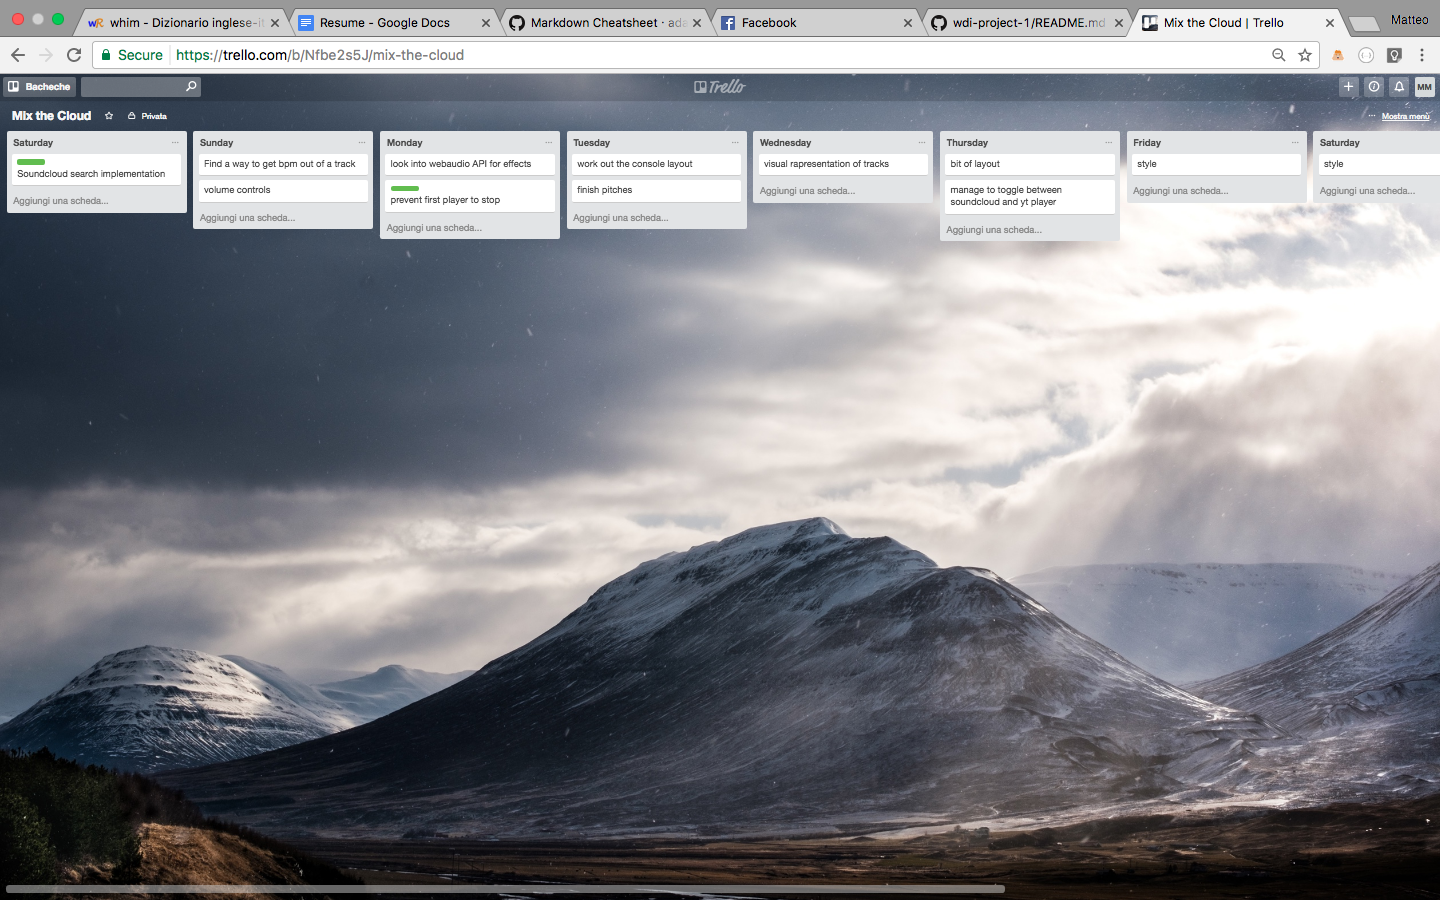
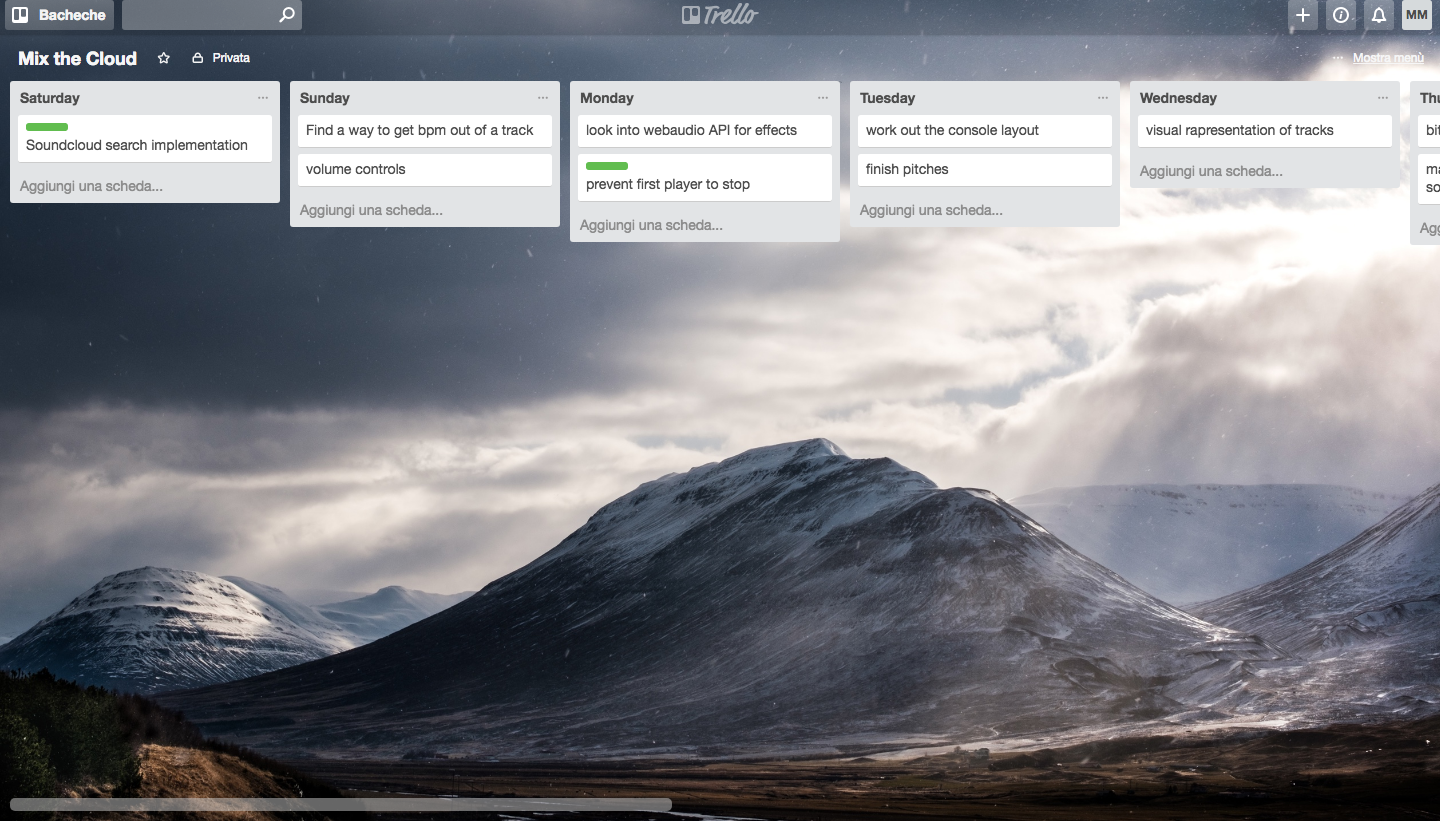
:fire:

diff --git a/README.md b/README.md
@@ -1,4 +1,4 @@
- <img src="http://i.imgur.com/MJAhVsh.png" height="70"/>
+ <img src="http://i.imgur.com/MJAhVsh.png" height="70">
  
  <h2>Genesis</h2>
  <p>I've always been involved in djing and electronic music in general. </p>
@@ -19,6 +19,8 @@
 <li>Design a logo.</li>
 </ul>
  <p>Those who have spent sometime djing will know that these are pretty much the essential functionalities in a dj console (not the logo, of course, that's just a plus), so I decided I'd have started from these points, and I have used trello to divide my tasks day by day.</p>
+ <img src="https://raw.githubusercontent.com/mmorandini/wdi-project-4-client/master/src/images/trello-board.png" width="600">
+ 
  <h2>Development</h2>
  <p></p>
  <h2>Technologies</h2>
